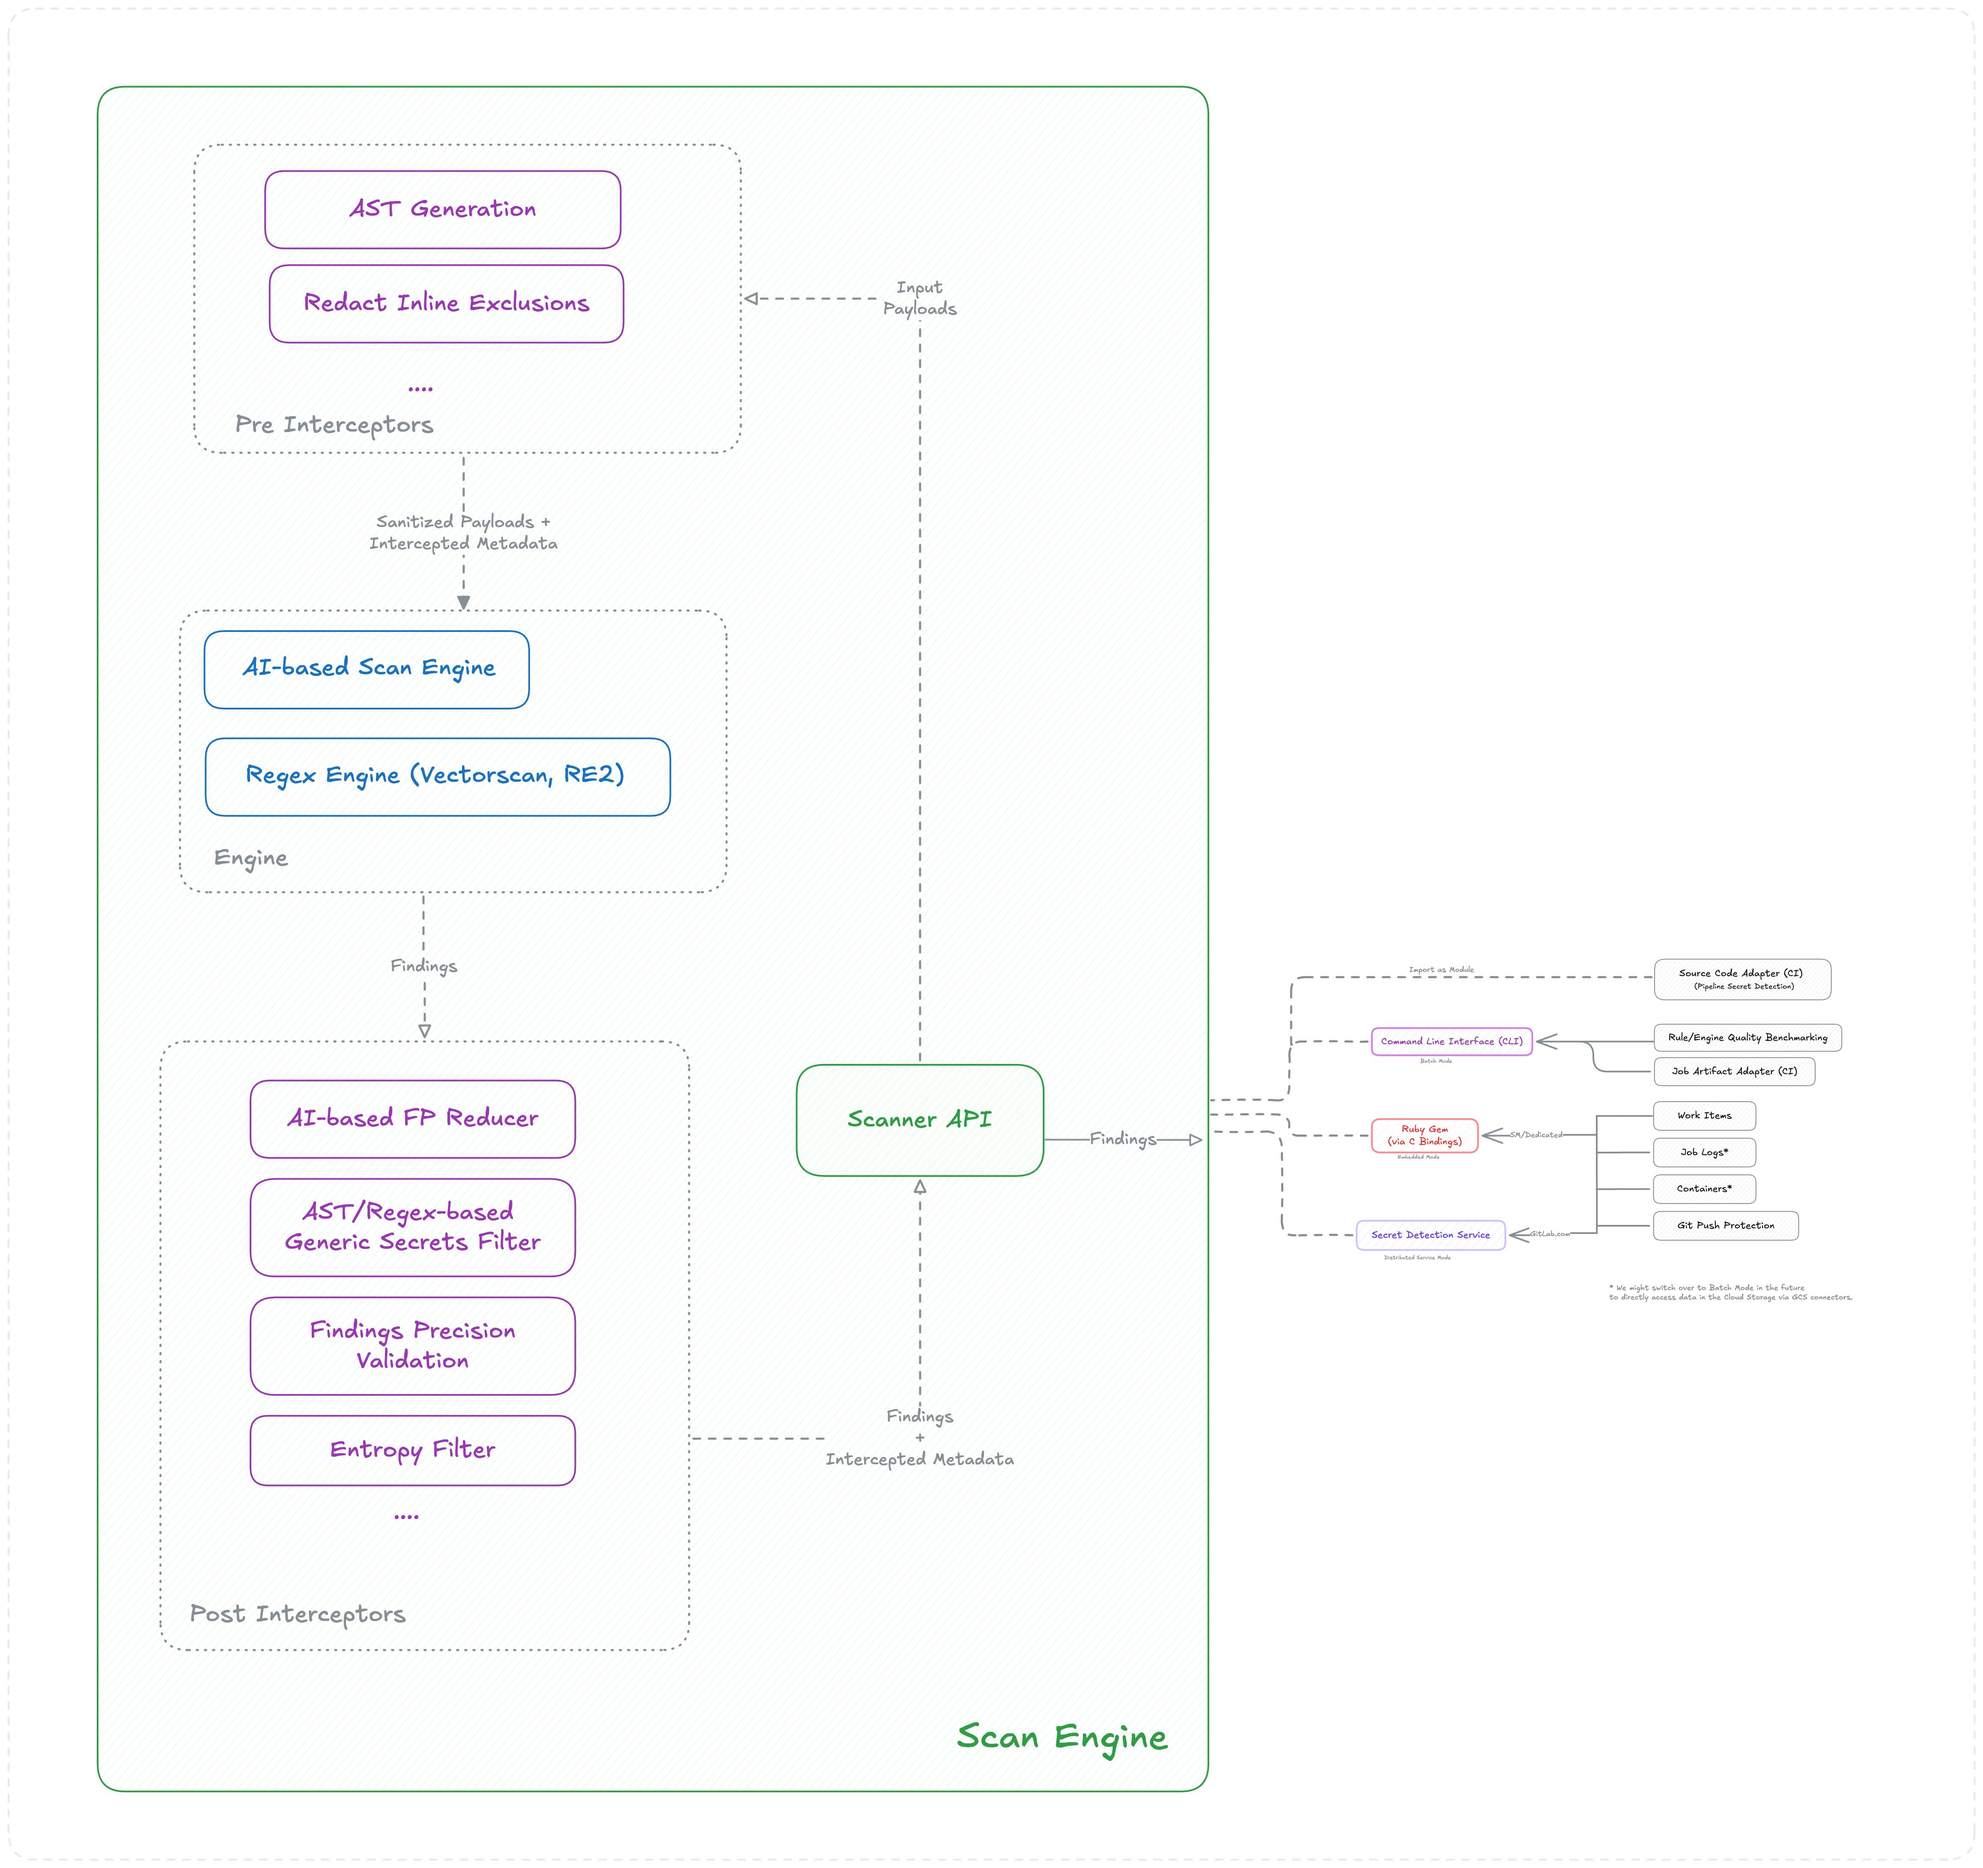
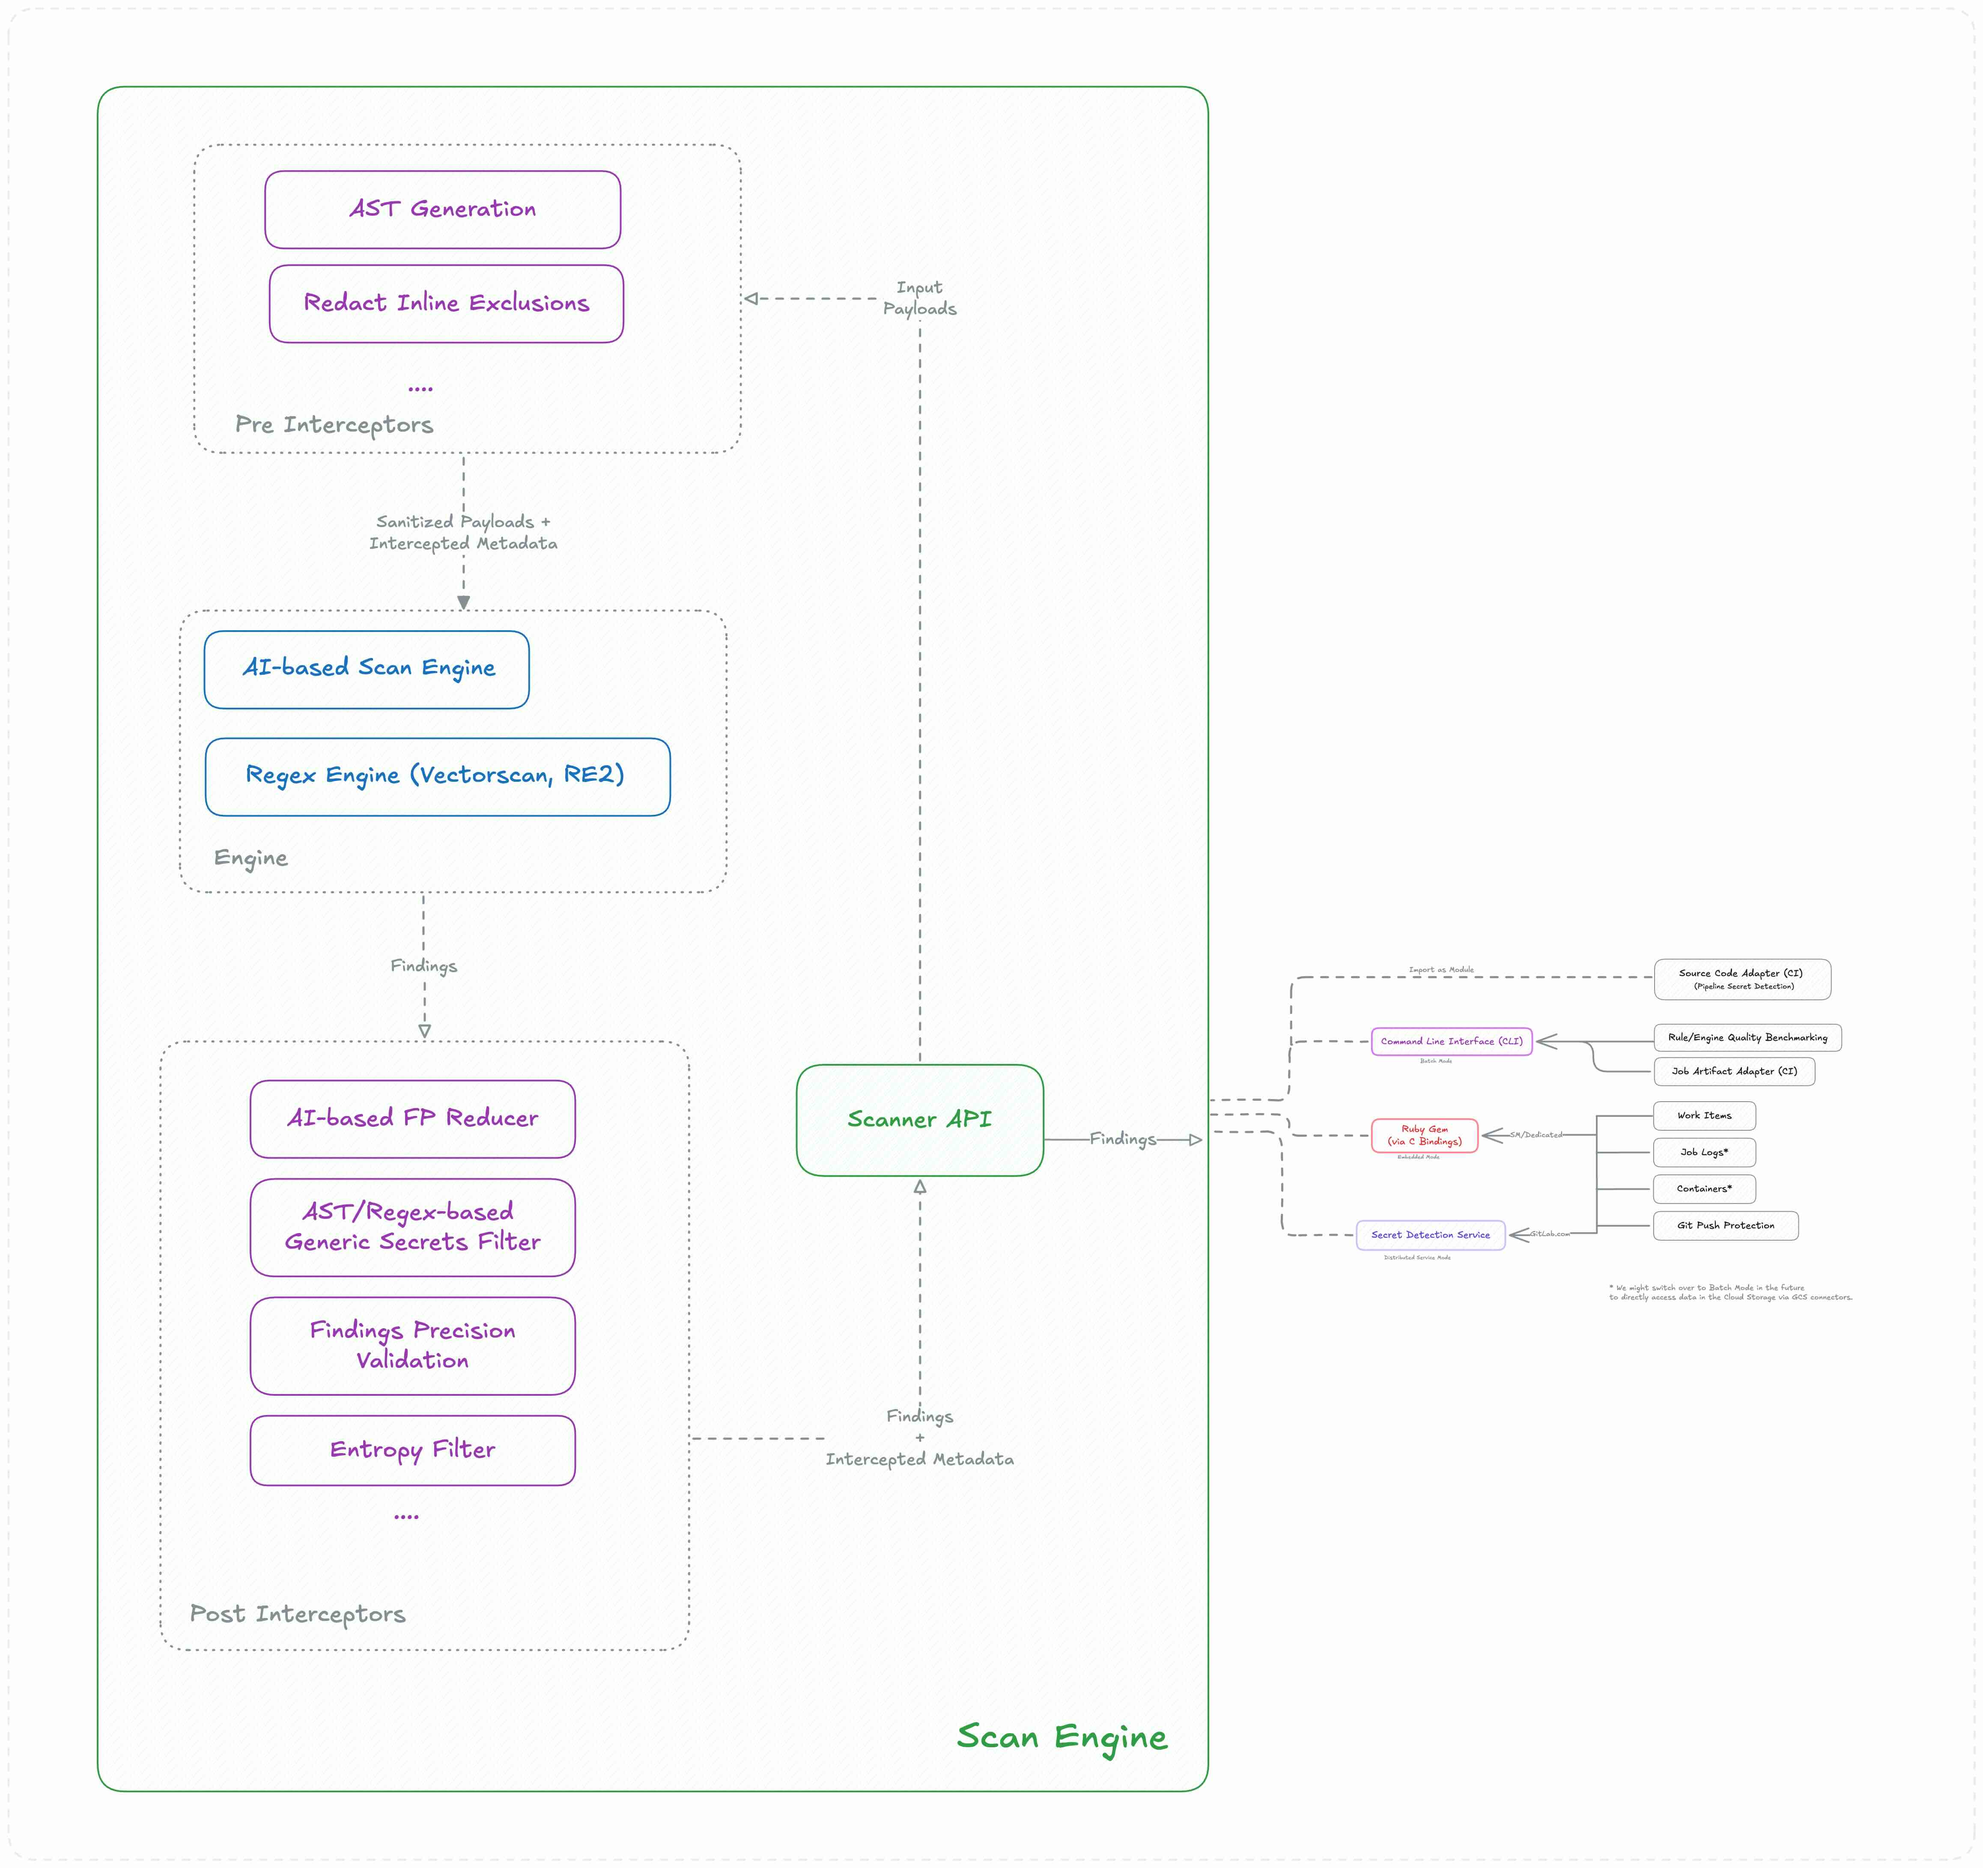
Address Lint Issues

diff --git a/content/handbook/engineering/architecture/design-documents/secret_detection/decisions/008_unified_scan_engine.md b/content/handbook/engineering/architecture/design-documents/secret_detection/decisions/008_unified_scan_engine.md
@@ -81,16 +81,15 @@ As we are planning on introducing additional engines (like [AI-based](https://gi
 
 The Scan Engine component contains Scan Interceptors that appear before (`Pre-Inteceptor`) and after (`Post-Inteceptor`) the scan operation by the internal engine. 
 
-- `Pre-Inteceptor` intercepts the input payloads and runs a specific operation on them to return either the modified payloads, or the same payloads along with additional metadata in the result. Examples include AST generation for the payloads, sanitizing the payload data for inline exclusions, etc. 
+* `Pre-Inteceptor` intercepts the input payloads and runs a specific operation on them to return either the modified payloads, or the same payloads along with additional metadata in the result. Examples include AST generation for the payloads, sanitizing the payload data for inline exclusions, etc. 
 
-- `Post-Interceptor` intercepts the findings detected initially by the internal engine and returns either hints to discard some of them due to false positives, or runs domain-specific critiera to generate a new metadata. Examples include AI-based False Positive reducer, Entropy matcher, etc.  
+* `Post-Interceptor` intercepts the findings detected initially by the internal engine and returns either hints to discard some of them due to false positives, or runs domain-specific critiera to generate a new metadata. Examples include AI-based False Positive reducer, Entropy matcher, etc.  
 
 The interceptors can be either be piped into a chain where each Interceptor's output will be passed as an input to the subsequent Interceptor, or it can opt to exist independently. Either way, the results of all these Interceptor will be gathered by the Scanner API to determine a confidence factor of each finding.
 
 Here's the illustration representing the internals of the Scan Engine Component:
 
 ![Scan Engine Component Internals](/images/engineering/architecture/design-documents/secret_detection/008_scan_engine_internals.jpg "Scan Engine Component Internals")
-
 
 ## Distribution
 
